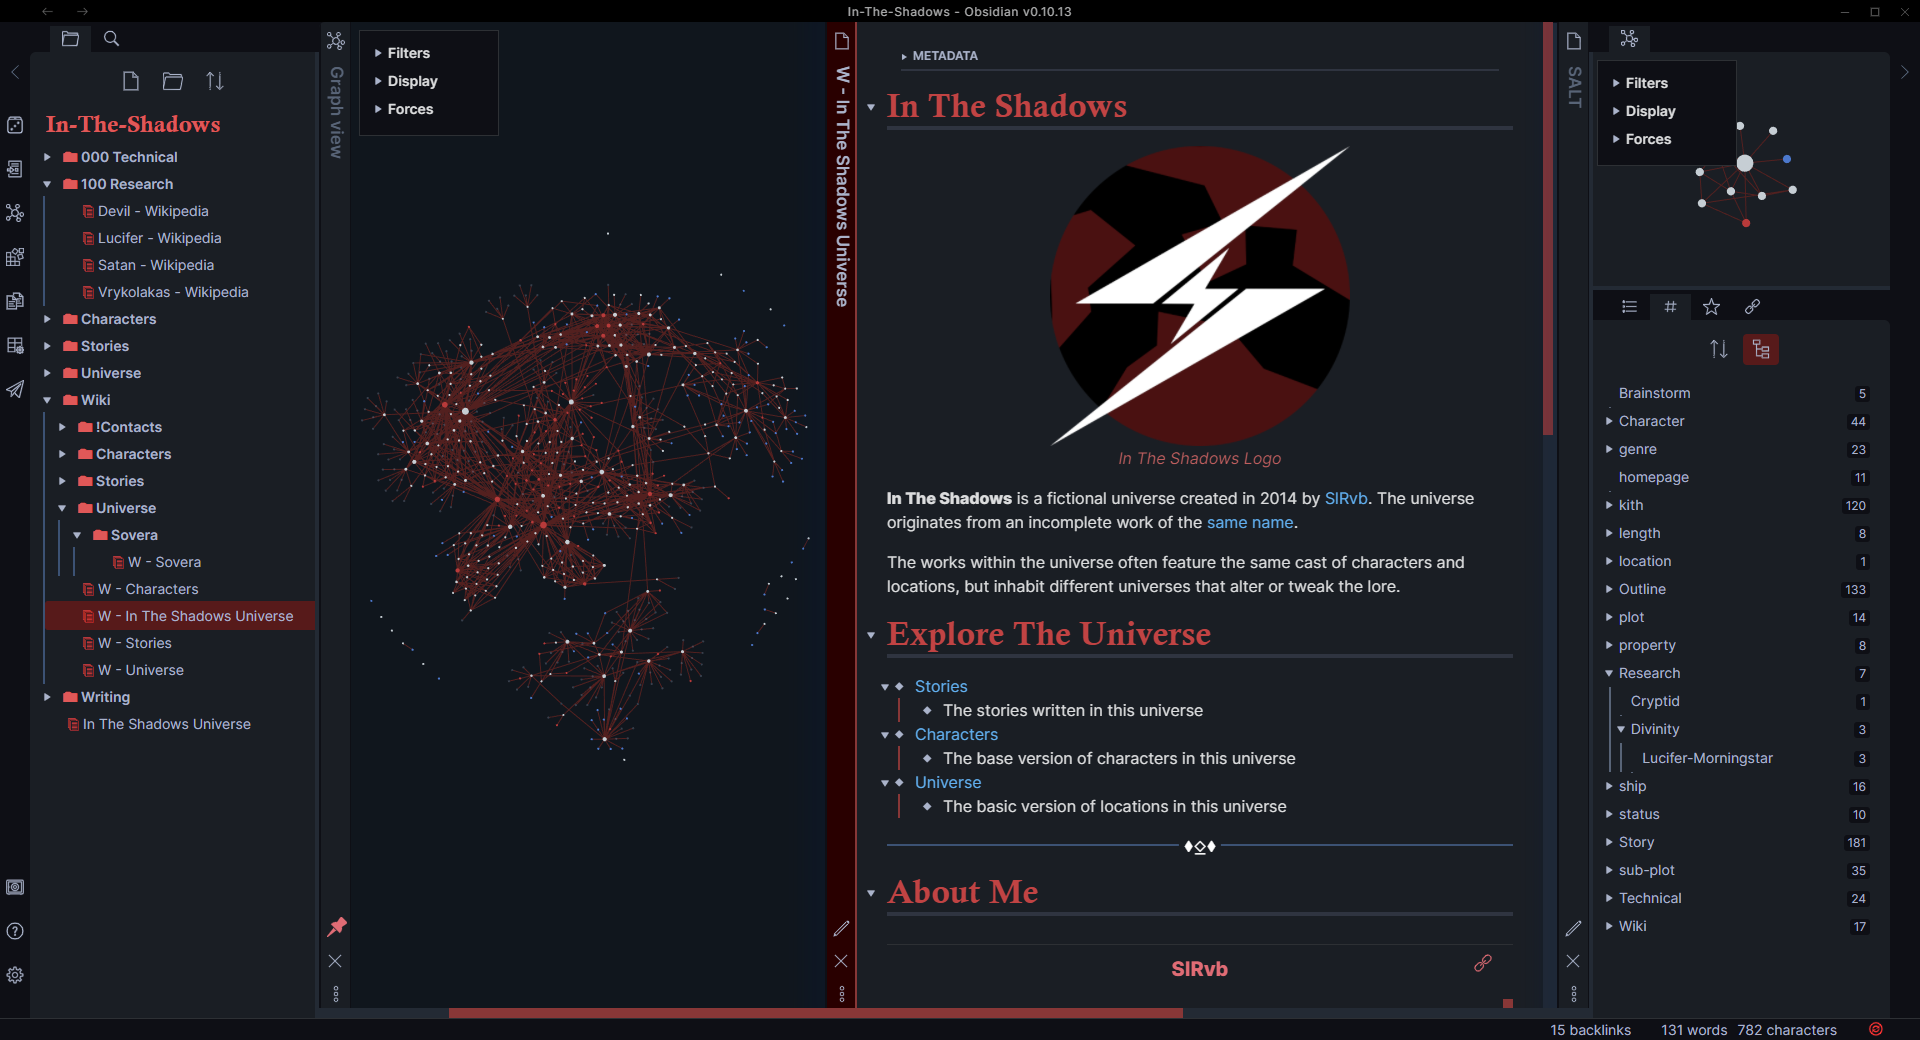
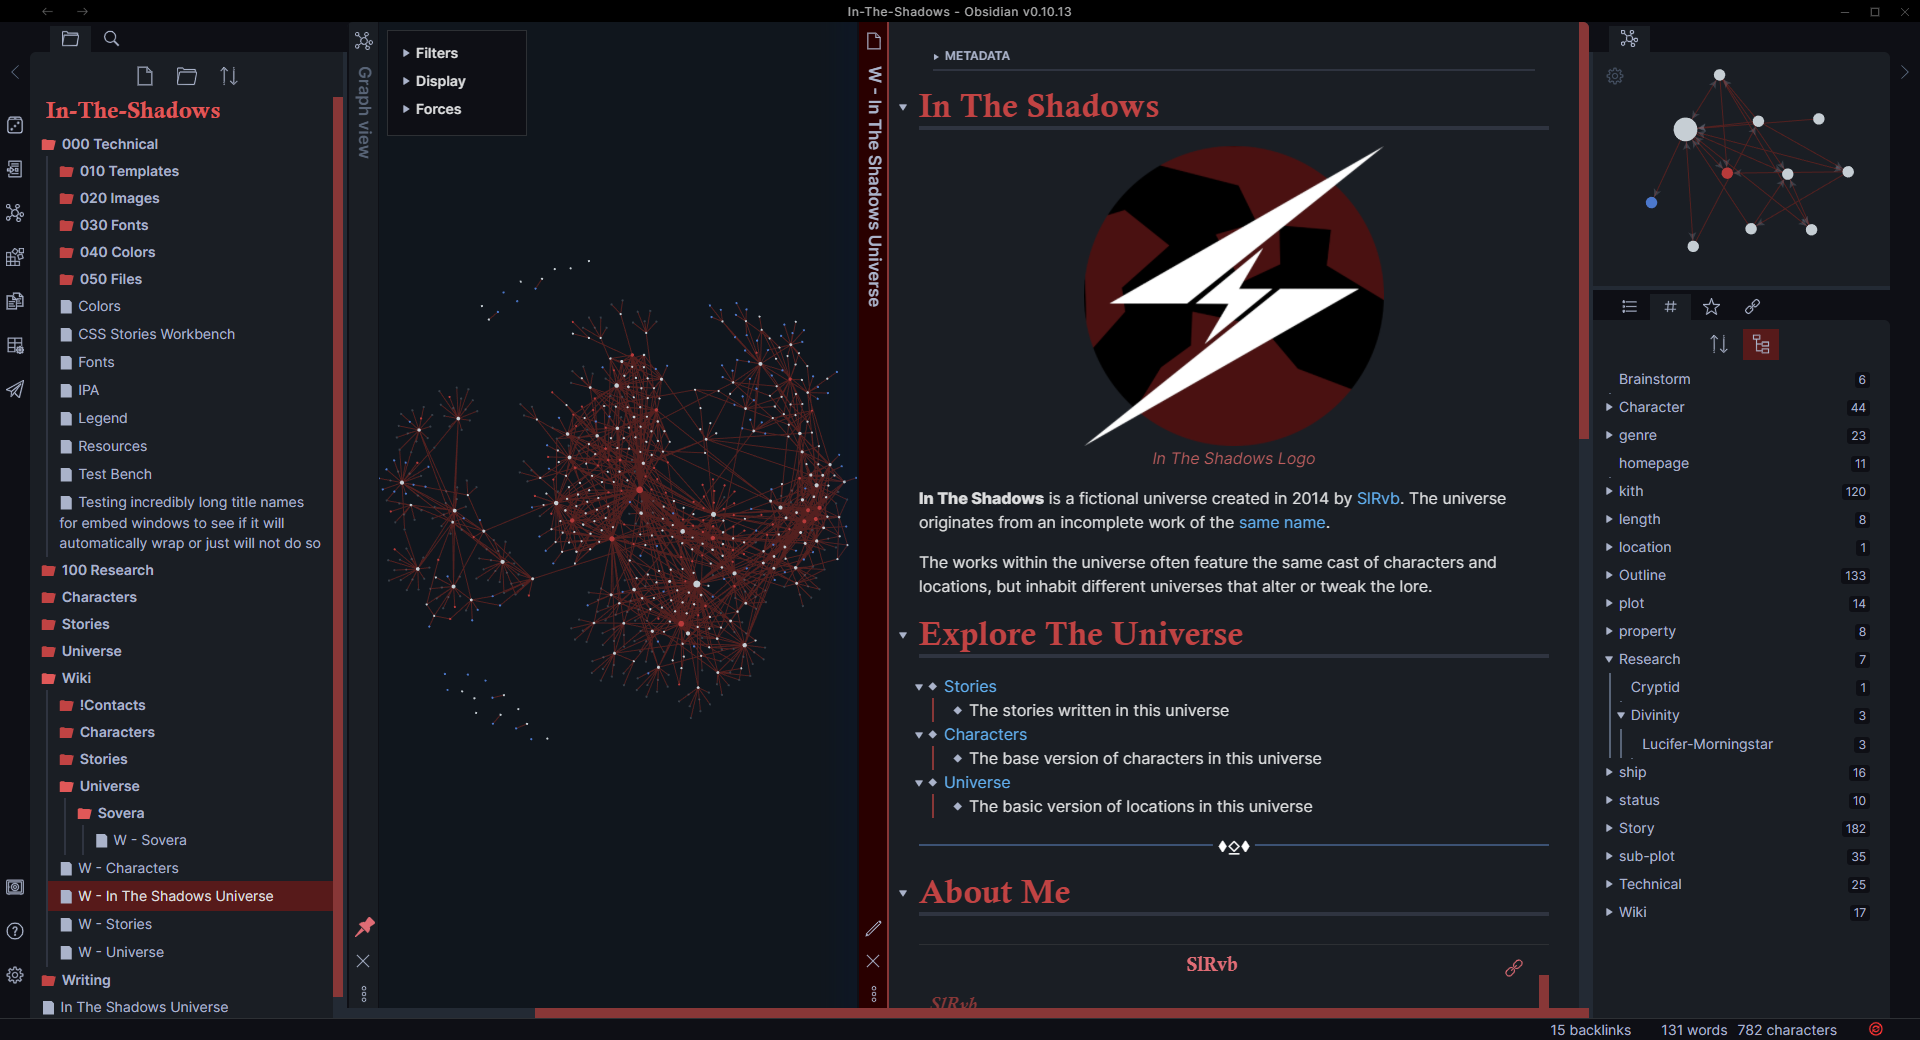
Explorer/Navbar Edits/No Arrows + Code, Embeds & Checkbox Fix

diff --git a/ITS.css b/ITS.css
@@ -259,6 +259,7 @@
 .nav-header {
     padding: 3% 0px 5px;
 }
+/*Adjusting Button Padding*/
 .nav-action-button {
     padding: 5px 8px 0 8px;
     margin: 0 3px 0px 3px;
@@ -279,6 +280,27 @@
     padding-bottom: 2%;
 }
 
+/*Nav Folder/File Icons*/
+.nav-folder-children .nav-folder-title-content::before {
+    content: '📁'/*\1F5BF*/;
+    color: transparent;
+    text-shadow: 0 0 0 var(--folder);
+    margin-right: 4px;
+    font-size: 13px;
+}
+.nav-folder-children .nav-file-title-content::before {
+    content: "📄"/*\1F5D0*/;
+    color: transparent;
+    text-shadow: 0 0 0 var(--file);
+    margin-right: 5px;
+    font-size: 12px;
+}
+
+/*Inactive Folder Color*/
+.is-collapsed .nav-folder-title-content:before {
+    text-shadow: 0 0 0 var(--headers);
+}
+
 /*Nav Folder Lines*/
 .nav-folder, .nav-file {
     margin: -2px !important;
@@ -286,7 +308,7 @@
 }
 /*Align Folder Line*/
 .nav-folder-children {
-    padding-left: 16px;
+    padding-left: 18px;
 }
 
 /*Text wrap*/
@@ -303,24 +325,20 @@
 
 /*Folder Push Left*/
 .nav-folder-title {
-    padding-left: 8.6%;
+    padding-left: 4px;
 }
 .nav-folder-title:hover {
     color: var(--f-hover) !important;
 }
 
-/*File Under Folder*/
+/*File Colors|File Under Folder*/
 .nav-file-title {
     padding-left: 1.8%;
+    color: var(--file);
 }
 .nav-file-title:hover {
     color: var(--f-hover) !important;
     font-weight: 600; 
-}
-
-/*File Colors*/
-.nav-file-title {
-    color: var(--file);
 }
 
 /*File selected*/
@@ -329,35 +347,9 @@
     border-color: var(--file-select);
 }
 
-
-/*Nav Folder/File Icons*/
-.nav-folder-children .nav-folder-title-content::before {
-    content: '📁'/*\1F5BF*/;
-    color: transparent;
-    text-shadow: 0 0 0 var(--folder);
-    margin-right: 4px;
-    font-size: 13px;
-}
-.nav-folder-children .nav-file-title-content:first-child::before {
-    content: "📄"/*\1F5D0*/;
-    color: transparent;
-    text-shadow: 0 0 0 var(--file);
-    margin-right: 5px;
-    font-size: 12px;
-}
-
 /*Arrows*/
-.nav-folder-collapse-indicator {
-    margin-left: -14px;
-    width: 9px;
-    color: var(--soft-text);
-}
-
 .nav-folder .collapse-icon {
-    display: flex;
-    align-items: flex-start;
-    padding-top: 9px;
-    color: var(--soft-text);
+    display: none;
 }
 
 
@@ -714,6 +706,11 @@ h4:after {
     left: 0;
 }
 
+/*Smaller Header Editor Line Height*/
+.cm-s-obsidian pre.HyperMD-header {
+    line-height: 1 !important;
+}
+
 /*Editor Heading Lines*/
 .cm-s-obsidian pre.HyperMD-header:after {
     content: "";
@@ -895,16 +892,15 @@ Masonry/Gallery View*/
 .markdown-preview-view .task-list-item-checkbox {
   -webkit-appearance: none;
   box-sizing: border-box;
-  border: 1px solid var(--text-faint);
-  border-radius: 2px;
+  border: 1px solid var(--accent);
+  border-radius: var(--border-radius);
   position: relative;
-  width: 1.3em;
-  height: 1.3em;
+  width: 15px;
+  height: 15px;
   margin: 0;
   filter: none;
   outline: none;
-  margin-right: 4px;
-  margin-bottom: 2px;
+  margin: auto 6px auto 6px;
   cursor: pointer;
   vertical-align: baseline;
 }
@@ -942,8 +938,8 @@ input[type="checkbox" i] {
     border: 1px solid var(--accent);
     border-radius: 2px;
     position: relative;
-    width: 1.3em;
-    height: 1.3em;
+    width: 15px;
+    height: 15px;
     margin: 0;
     filter: none;
     outline: none;
@@ -1038,7 +1034,7 @@ li::marker {
 /*--Embeds--*/
 /*Remove Top Padding*/
 .markdown-embed .markdown-preview-view {
-    padding: 10px;
+    padding: 5px 10px;
 }
 
 /* Italicize Embed Title*/
@@ -1051,7 +1047,7 @@ li::marker {
     height: auto;
     text-align: center;
     font-weight: 900;
-    padding: 1% 8% 2% 1%;
+    padding: 1% 8% 0% 1%;
     white-space: normal;
 }
 

diff --git a/README.md b/README.md
@@ -49,7 +49,9 @@ Theme for my Obsidian Story Vault: ***In The Shadows.***
 - **Text Wrapping**
     - Outline Pane
     - Tag Pane
-    - Folder Navigation
+    - File Explorer Sidebar
+    - Embed Titles
+    - Query Titles
 
 *Folder Icons based on Folder Title not included, use this to add your own icons:*
 ```
@@ -65,15 +67,16 @@ Theme for my Obsidian Story Vault: ***In The Shadows.***
 
 ![](Darkmode.png)
 
-Edit mode:
-
+**Features**
+![](Darkmode-Features.png)
+**Edit Mode**
 ![](Darkmode-Editing.png)
-
 
 ## Lightmode
 
 ![](Lightmode.png)
 
-Edit mode:
-
+**Features**
+![](Lightmode-Features.png)
+**Edit Mode**
 ![](Lightmode-Editing.png)
